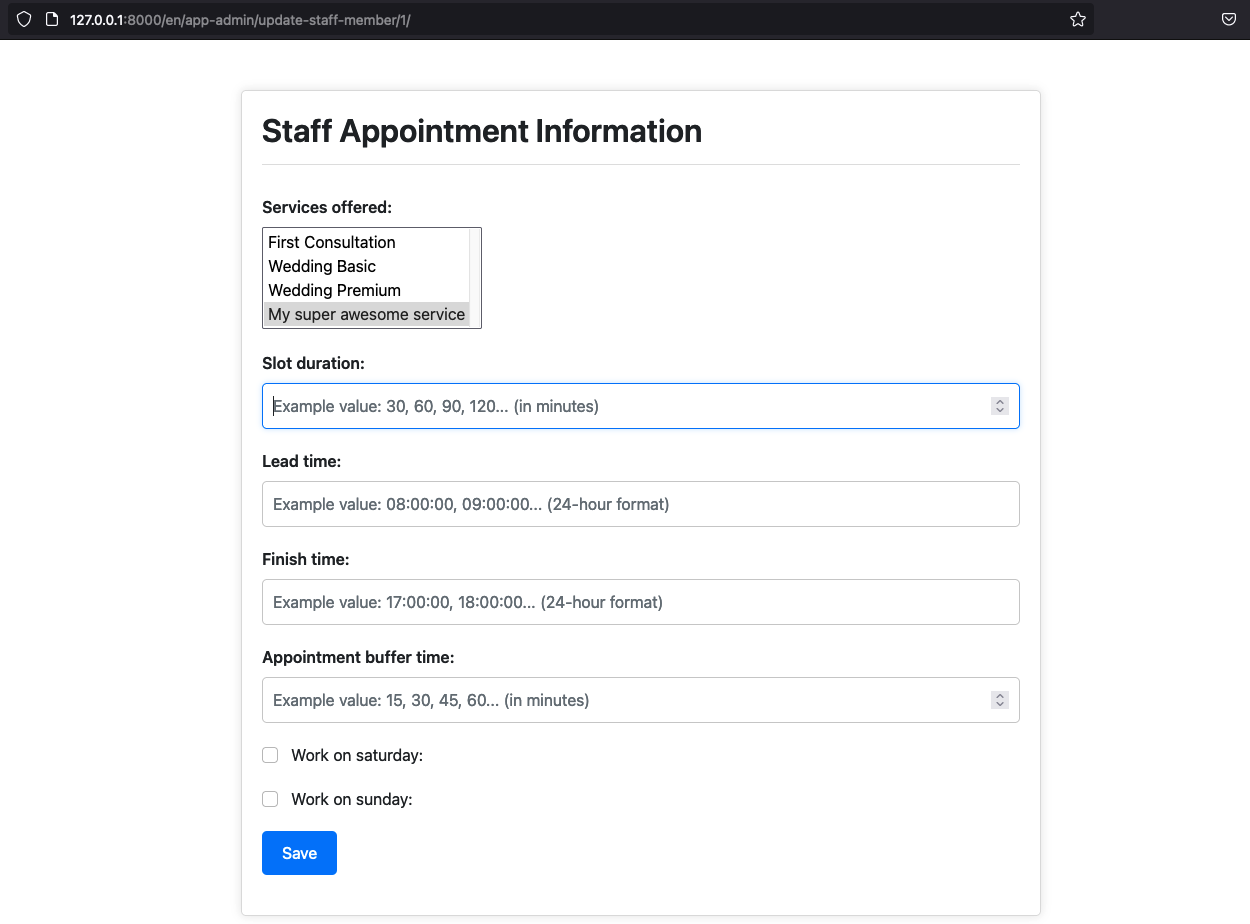
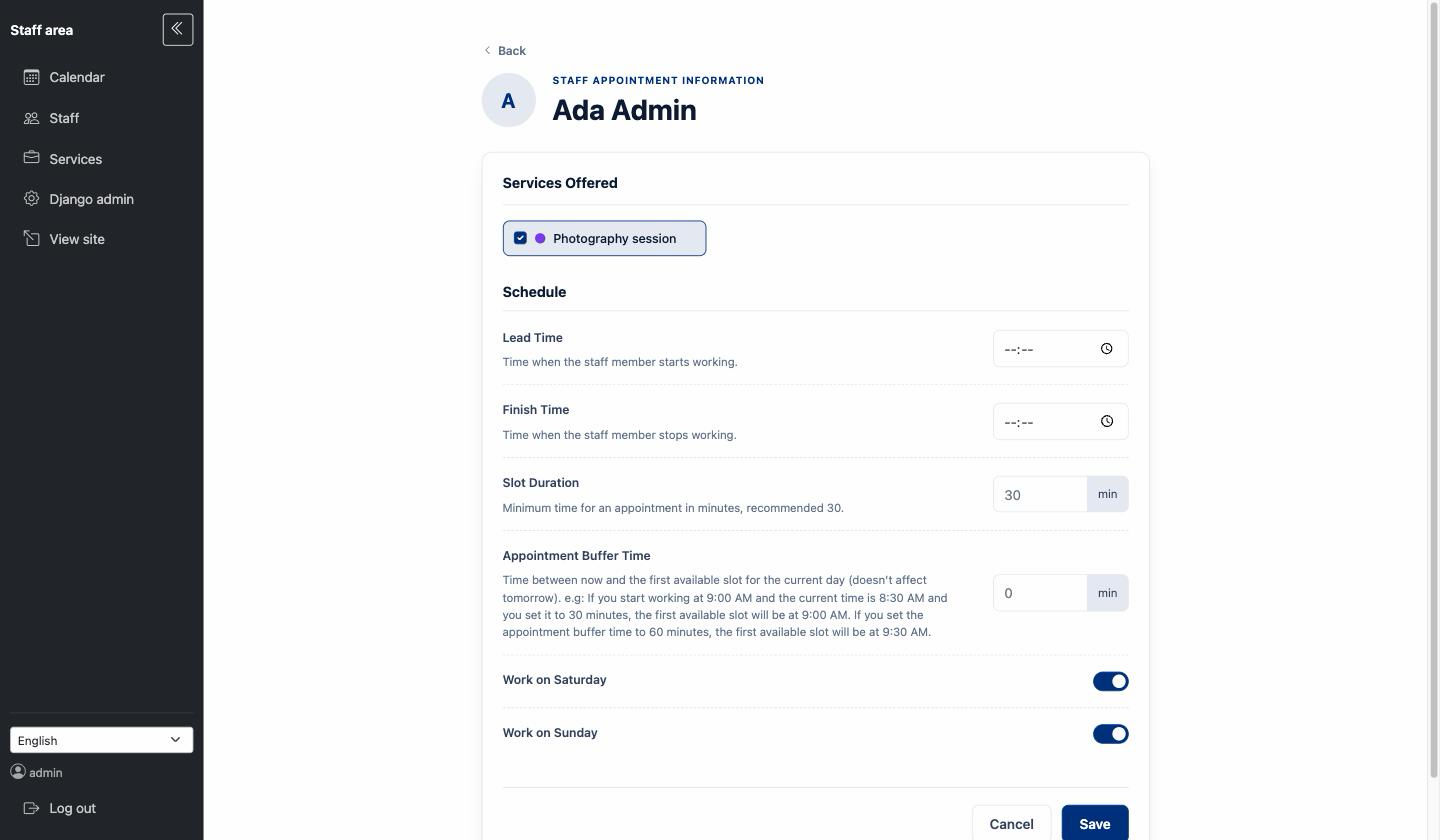
Add 3.12 migration guide and new screenshots
Also requires icalendar 7 and caps MkDocs below 2.0.

diff --git a/docs/migration_guides/v3_12_0.md b/docs/migration_guides/v3_12_0.md
@@ -1,0 +1,130 @@
+## Migration Guide for Version 3.12.0 🚀
+
+Version 3.12.0 does **not** change the database: no model, field or constraint is added, renamed or removed, so there
+is no migration to generate. What changes is how the pages and emails look and are built. If you use the package's
+pages and emails as they are, upgrading is only a `pip install`. If you override its templates, link its stylesheets,
+or call its delete URLs from your own code, read the steps below.
+
+### Before you start: supported versions
+
+| Declared in `setup.cfg` | 3.11.0 | 3.12.0 |
+|---|---|---|
+| `python_requires` | `>=3.10` | `>=3.10` |
+| Django | `>=4.2,<7.0` | `>=4.2,<7.0` |
+| `icalendar` | `~=6.3.1` | **`>=7.3,<8.0`** |
+
+`pip` upgrades `icalendar` to 7.x for you. If your own code uses `icalendar` too, check it against
+7.x. The [compatibility matrix](../compatibility.md) has the tested Python and Django combinations.
+
+### Steps for Upgrading to Version 3.12.0:
+
+1. **Backup Your Database**:
+    - As a best practice, always back up your current database before an upgrade, even one without migrations.
+
+2. **Update Package**:
+    - Upgrade to the latest version by running:
+      ```bash
+      pip install --upgrade django-appointment
+      ```
+
+3. **Check there is nothing to migrate**:
+    - The package does not ship migration files, so confirm your own ones are up to date:
+      ```bash
+      python manage.py makemigrations appointment --check --dry-run
+      ```
+    - It should report "No changes detected". If it proposes changes, they come from an earlier upgrade you have not
+      migrated yet, not from 3.12.0: read that version's migration guide first.
+
+4. **Collect the static files**:
+    - The pages use new stylesheets and scripts (`css/djappt.css`, `css/booking.css`, `css/services.css`,
+      `css/staff.css`, `js/app_admin/*.js`…). If your site serves collected static files, run:
+      ```bash
+      python manage.py collectstatic
+      ```
+    - Browsers may keep the old CSS for a while: reload with the cache disabled when you check the pages.
+
+5. **Check your base templates**:
+    - Every package page now extends `appointment/layout.html`, which extends your `APPOINTMENT_BASE_TEMPLATE` (client
+      pages) or `APPOINTMENT_ADMIN_BASE_TEMPLATE` (staff pages) and wraps the page in `<div class="djappt">`. Your
+      base must still load Bootstrap 5 (CSS and JS) and jQuery, and define the blocks the pages fill: `title`,
+      `description`, `keyword`, `author`, `customMetaTag`, `customCSS`, `scriptHead`, `body` and `customJS`.
+    - The package CSS only applies inside that wrapper, so it no longer restyles your navbar, footer or other pages.
+      If one of your own pages relied on a package rule leaking out (a font, a margin on `body`), move that rule into
+      your own CSS.
+    - The staff profile page (`user-profile/<id>/`) sets `user` in its context to the staff member whose profile it
+      is, as it always has. If your admin base shows the logged-in user or picks its links with `user`, switch those
+      to `request.user`, or the sidebar shows the staff member instead of you on that page.
+
+6. **Review your template overrides**:
+    - Overrides are found exactly as before (`templates/appointment/…`, `templates/administration/…`, and the
+      custom names listed in [Custom templates](../custom-templates.md)). But they were copied from the old pages, so
+      they keep the old look, and their markup no longer matches the new stylesheets.
+    - An override that extends `BASE_TEMPLATE` and fills `{% block body %}` keeps working as before. To get the new
+      wrapper and styles, extend `appointment/layout.html` and fill `{% block djappt_content %}` instead, then copy
+      the parts you changed onto the new default template.
+    - Pages that relied on removed libraries now need to load them themselves: the staff pages no longer load Font
+      Awesome, and the working hours, day off and unavailability forms no longer load Bootstrap 4, the tempusdominus
+      picker, moment.js or jQuery UI (they use the browser's date and time pickers). They still send the same data
+      to the same URLs.
+    - The stylesheets the pages no longer use (`appointments.css`, `app_admin/btn.css`, `app_admin/user_profile.css`
+      and the others listed under Deprecations in the [release notes](../release_notes/v3_12_0.md)) are still shipped
+      for overrides that link them. They will be removed in a future major version, so plan to drop those links.
+
+7. **Check anything that calls the delete and remove URLs**:
+    - `delete_service`, `delete_appointment`, `delete_day_off`, `delete_unavailability`, `delete_working_hours`,
+      `remove_staff_member`, and the "make me a staff member" / "remove me" actions now accept **POST** only and
+      answer a GET with `405`.
+    - The package's pages already send a POST. If a template or script of yours links to one of them, turn the link
+      into a small form:
+      ```html
+      <form method="post" action="{% url 'appointment:delete_day_off' day_off_id=day_off.id %}">
+          {% csrf_token %}
+          <button type="submit">Delete</button>
+      </form>
+      ```
+      or use `modal/confirm_modal.html` with `js/modal/show_modal.js`, which submits one for you.
+
+8. **Check your emails**:
+    - The four package emails (booking confirmation, new appointment request, reminder, reschedule) have a new
+      design, extend `email_sender/base_email.html`, and come with a `.txt` version for the plain-text part. Your
+      own email templates in `templates/emails/` are used as before; add a `.txt` next to one
+      (`emails/thank_you.txt` for `emails/thank_you.html`) to control its plain-text part, otherwise it is derived
+      from the HTML.
+    - `ADMINS` may now be a list of email addresses, the form Django 6 recommends (`ADMINS = ['admin@example.com']`).
+      With that form, 3.11 failed on every booking; 3.12 accepts both it and `('Name', 'email')` pairs.
+
+9. **Review and Test**:
+    - Book an appointment from start to finish, then open the staff calendar, an appointment, the service list, a
+      staff profile and the working hours, day off and unavailability forms, and save one of each.
+    - Check the pages at a phone width too: the layout now follows the width your base template gives it, not only
+      the window.
+    - If you link to the default thank-you page (`thank-you/<appointment_id>/`) from somewhere else, such as an
+      email or a payment page opened in another browser, test it: visitors not logged in as the client now get a
+      `404` there.
+
+### Optional follow-ups
+
+- **Your colours**: set `--djappt-accent` (and the other `--djappt-*` variables if you want) on `.djappt` in your
+  own CSS to match your brand. See [Colours](../custom-templates.md#colours).
+- **Translations**: French and Spanish are now complete. If you maintain your own translation, run `makemessages` in
+  your project to pick up the new and reworded strings; the emails' sentences are now whole, with the names inside.
+
+### Troubleshooting:
+
+- **The pages look unstyled or half old, half new**:
+    - Run `collectstatic` again and reload with the cache disabled. An override of the page itself keeps the old
+      markup: compare it with the new default template.
+- **The staff sidebar shows another user on a profile page**:
+    - Your admin base uses `user`; use `request.user` (step 5).
+- **A delete button answers `405 Method Not Allowed`**:
+    - Something sends a GET to a delete URL; make it a POST (step 7).
+- **Issues Post Upgrade**:
+    - Consult the [release notes](../release_notes/v3_12_0.md) for the details of each change, and check the Django
+      logs for error messages.
+
+### Important Notes 📝:
+
+- As with any upgrade, testing in a development or staging environment before applying changes to your production
+  environment is highly recommended.
+- Upgrading from the 3.10 series or older? Read the [3.11 migration guide](latest.md) first: that release added a
+  model, so it needs a migration.

diff --git a/docs/release_notes/v3_12_0.md b/docs/release_notes/v3_12_0.md
@@ -9,14 +9,20 @@
 
 ## Introduction 📜
 
-Version 3.12.0 is a feature release on top of 3.11.0. It redesigns the booking pages so they fit into any site
-without restyling it, lets a site re-colour them with one CSS variable, makes booking smoother for logged-in clients,
-formats prices for the visitor's language, and closes two security holes: a script injection in the staff calendar
-and open access to the default thank-you page.
+Version 3.12.0 is a feature release on top of 3.11.0, and its main change is a new look for every page the package
+ships: booking, confirmation and error pages, the staff calendar and appointment details, the service, staff and
+profile pages, the working hours, day off and unavailability forms, and the emails. The pages now fit into any site
+without restyling it, adapt to the room your layout gives them, and can be re-coloured with one CSS variable. The
+release also makes booking smoother for logged-in clients, formats prices for the visitor's language, sends every
+email with a plain-text part, completes the French and Spanish translations, and closes two security holes: a script
+injection in the staff calendar and open access to the default thank-you page.
+
+There is no database change. Read the [migration guide](../migration_guides/v3_12_0.md) if you override the
+package's templates, link its stylesheets, or call its delete URLs yourself.
 
 ## New Features ✨
 
-### Redesigned booking flow 🎨
+### Redesigned pages and emails 🎨
 
 The slot picker, the client information page, the verification code page and the thank-you pages have a new look:
 white cards with a navy accent, numbered steps, and a "Your appointment" summary next to the form.
@@ -130,6 +136,9 @@ They extend the new `email_sender/base_email.html`; your own templates in `templ
   the staff member whose profile it is, which hides the logged-in user of the same name. If your base template shows
   the logged-in user or picks links with `user`, use `request.user` there. The demo bases now do.
 
+- **icalendar 7.** The package now requires `icalendar>=7.3,<8.0` (3.11 required 6.3.x); `pip` upgrades it for you.
+  Check your own code if it uses icalendar too.
+
 ## Deprecations ⚠
 
 `appointments.css`, `appointments-user-details.css`, `thank_you.css`, `app_admin/admin.css`, `appt-common.css`,
@@ -184,6 +193,12 @@ future major version.
       only re-renders fully when switching between the phone, tablet and desktop layouts;
     - the appointment detail page has a description ("Service on date") for the browser and search engines.
 - The published package no longer includes the `appointments` demo project.
+- The booking page crashed ("'NoneType' object has no attribute 'hour'") once a `Config` existed without a start
+  time, end time, slot duration or buffer. The package creates such a `Config` itself the first time a client
+  reschedules, so every booking page failed from then on. Each empty setting now falls back to its `APPOINTMENT_*`
+  value from your settings.
+- The default thank-you page had no title in the browser tab, and its heading added " !" after the translated "See
+  you soon", which is only right in French. The heading is now one translated sentence.
 - Picking a day a staff member doesn't work said "Not a working day for ." when the staff user had no first name; it
   now uses their full display name then.
 - The published package left out the illustration of the `403` rescheduling page (a `.webp` image): only `.jpg`

diff --git a/docs/tutorial.md b/docs/tutorial.md
@@ -25,7 +25,7 @@ If you attempt to create an appointment request now, it's still not possible as 
 
 ![Appointment Request without Staff Member](screenshots/appointment_request_w_sm.png)
 
-Similarly, if you check the list of appointments, it will be empty and you'll get a warning:
+Similarly, the staff calendar is empty:
 
 ![Appointment List without Staff Member](screenshots/appointment_list_admin.png)
 
@@ -35,7 +35,7 @@ To add a staff member, visit:
 
 ![Staff Member List](screenshots/staff_member_list.png)
 
-You can either add a new staff member or assign yourself as a staff member, especially if you are a superuser. In this example, I will demonstrate using the `Staff me` button.
+You can either add a new staff member or assign yourself as a staff member, especially if you are a superuser. In this example, I will use the `Staff me` button.
 
 ### Updating Your Profile
 
@@ -43,13 +43,13 @@ Once you have created a staff member profile, you need to specify the services y
 
 ![Initial Profile](screenshots/initial_profile.png)
 
-To edit your appointment information, such as the services you offer, click on the edit icon next to `Appointment Information`:
+To edit your appointment information, such as the services you offer, click `Edit` next to `Appointment Information`. Each service is a checkbox:
 
 ![Profile Edit](screenshots/adding_service_to_profile.png)
 
 After selecting the services you offer, you may leave other fields blank if desired, and then click `Save`.
 
-Additionally, select the days you wish to work by clicking the `add icon` next to `Working Hours`. For demonstration purposes, I have chosen Saturdays and Sundays from 9 AM to 5 PM.
+Additionally, add the days you wish to work with the `Add` button next to `Working Hours`. For demonstration purposes, I have chosen Saturdays and Sundays from 9 AM to 5 PM. The profile shows the whole week, with each day's hours as a bar.
 
 Your updated profile should look like this:
 
@@ -63,7 +63,7 @@ Now, users can start creating appointments. The interface for clients would appe
 
 Notice that only Saturdays and Sundays are selectable, with the only staff member (you) selected by default.
 
-Let's create an appointment request for Saturday, January 13th, 2024, at 3:00 PM:
+Let's pick a Saturday and the 3 PM slot. The summary on the right follows the choice, and `Next` becomes clickable:
 
 ![Creating Appointment Request](screenshots/creating_appt_request.png)
 

diff --git a/docs/client-side-features.md b/docs/client-side-features.md
@@ -63,14 +63,11 @@ and like this when a slot is selected, there, the next button is no longer grayi
 ![ar_selected_slot.png](images/ar_selected_slot.png)
 
 !!! warning
-    In the images shown, days highlighted in dark gray represent dates that are not selectable. This
-    unavailability is due to the staff member's decision not to work on those days, thus precluding any appointments. For
-    instance, in the displayed example, a specific staff member has chosen to start their workday at 5 pm (17:00) and
-    conclude at 7:30 pm (19:30), although on other days, their schedule may begin as early as wanted. Importantly, clients
-    cannot select past dates for appointments. After a client completes the booking process, the occupied slot(s) are
-    immediately removed from the availability list. If, for example, the service duration is one hour with slots proposed
-    in 30-minute increments, and an appointment is scheduled at 5 pm (17:00), two slots will be deducted for subsequent
-    clients, making the next available start time 6 pm (18:00).
+    In the calendar, days shown in light gray can't be selected: past dates, and the days the chosen staff member
+    doesn't work or has taken off. The available slots of a day come from that staff member's start and end times and
+    the slot duration. After a client completes the booking, the occupied slot(s) are removed from the list: if the
+    service lasts one hour, slots are proposed every 30 minutes and an appointment is booked at 5 pm (17:00), the next
+    available start time for other clients is 6 pm (18:00).
 
 ### Personal information and payment options
 

diff --git a/docs/staff-member-features.md b/docs/staff-member-features.md
@@ -19,9 +19,9 @@ Staff members have access to a personalized dashboard with the following capabil
 5. **Delete Appointments**: Remove their own appointments with a confirmation prompt.
 
 6. **Add New Appointments**:
-   - On desktop: Right-click a day and select "New Appointment."
+   - On desktop: Click "New Appointment" above the calendar, or right-click a day.
      ![New Appointment Desktop](images/sm_new_appointment.png)
-   - On mobile: Tap a day and select "New Event."
+   - On mobile: Tap "New Appointment" (tapping a day opens that day's schedule).
      ![New Appointment Mobile](images/sm_new_appointment_mobile.png)
 
 7. **Block Part of a Day**: Record an *unavailability* — a start and end time on a single date, with an optional
